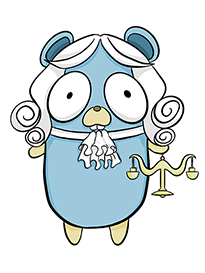
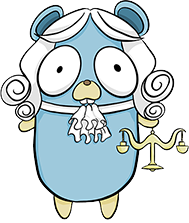
Chore/readme (#243)
* Added performance test

* Fix linting

* README.md

* make the image background transparent

diff --git a/README.md b/README.md
@@ -191,39 +191,28 @@ You can read the [detail report here](docs/Benchmarking_en.md)
 
 # Our Contributors
 
-
-<table width="100%">
-<tr><td align="center"><a href="https://github.com/newm4n"><img width="80px" height="80px" src="https://avatars3.githubusercontent.com/u/3471399?v=4"><br><br>newm4n</a><br><br></td>
-<td align="center"><a href="https://github.com/jinagamvasubabu"><img width="80px" height="80px" src="https://avatars1.githubusercontent.com/u/8560620?v=4"><br><br>jinagamvasubabu</a><br><br></td>
-<td align="center"><a href="https://github.com/niallnsec"><img width="80px" height="80px" src="https://avatars3.githubusercontent.com/u/21335031?v=4"><br><br>niallnsec</a><br><br></td>
-<td align="center"><a href="https://github.com/inhuman"><img width="80px" height="80px" src="https://avatars0.githubusercontent.com/u/2518263?v=4"><br><br>inhuman</a><br><br></td>
-<td align="center"><a href="https://github.com/ariya"><img width="80px" height="80px" src="https://avatars1.githubusercontent.com/u/7288?v=4"><br><br>ariya</a><br><br></td>
-<td align="center"><a href="https://github.com/sapiderman"><img width="80px" height="80px" src="https://avatars1.githubusercontent.com/u/964106?v=4"><br><br>sapiderman</a><br><br></td>
-</tr>
-<tr>
-<td align="center"><a href="https://github.com/jtr860830"><img width="80px" height="80px" src="https://avatars1.githubusercontent.com/u/13183797?v=4"><br><br>jtr860830</a><br><br></td>
-<td align="center"><a href="https://github.com/trancee"><img width="80px" height="80px" src="https://avatars0.githubusercontent.com/u/1520623?v=4"><br><br>trancee</a><br><br></td>
-<td align="center"><a href="https://github.com/liouxiao"><img width="80px" height="80px" src="https://avatars2.githubusercontent.com/u/3435699?v=4"><br><br>liouxiao</a><br><br></td>
-<td align="center"><a href="https://github.com/Troush"><img width="80px" height="80px" src="https://avatars0.githubusercontent.com/u/1163074?v=4"><br><br>Troush</a><br><br></td>
-<td align="center"><a href="https://github.com/shanhuhai5739"><img width="80px" height="80px" src="https://avatars3.githubusercontent.com/u/3794113?v=4"><br><br>shanhuhai5739</a><br><br></td>
-<td align="center"><a href="https://github.com/derekwyatt"><img width="80px" height="80px" src="https://avatars3.githubusercontent.com/u/62324?v=4"><br><br>derekwyatt</a><br><br></td>
-</tr>
-<tr>
-<td align="center"><a href="https://github.com/garychristianto"><img width="80px" height="80px" src="https://avatars1.githubusercontent.com/u/50298986?v=4"><br><br>garychristianto</a><br><br></td>
-<td align="center"><a href="https://github.com/sourcesoft"><img width="80px" height="80px" src="https://avatars2.githubusercontent.com/u/608906?v=4"><br><br>sourcesoft</a><br><br></td>
-<td align="center"><a href="https://github.com/sdowding-koho"><img width="80px" height="80px" src="https://avatars3.githubusercontent.com/u/62896133?v=4"><br><br>sdowding-koho</a><br><br></td>
-<td align="center"><a href="https://github.com/yomashExpel"><img width="80px" height="80px" src="https://avatars3.githubusercontent.com/u/25300754?v=4"><br><br>yomashExpel</a><br><br></td>
-<td align="center"><a href="https://github.com/avisdsouza"><img width="80px" height="80px" src="https://avatars1.githubusercontent.com/u/8979874?v=4"><br><br>avisdsouza</a><br><br></td>
-<td align="center"><a href="https://github.com/zct"><img width="80px" height="80px" src="https://avatars3.githubusercontent.com/u/4023051?v=4"><br><br>zct</a><br><br></td>
-</tr>
-<tr>
-<td align="center"><a href="https://github.com/enricoojf"><img width="80px" height="80px" src="https://avatars2.githubusercontent.com/u/17194541?v=4"><br><br>enricoojf</a><br><br></td>
-<td align="center"><a href="https://github.com/vlean"><img width="80px" height="80px" src="https://avatars1.githubusercontent.com/u/7309530?v=4"><br><br>vlean</a><br><br></td>
-</tr>
-</table>
-
-
-
+<a href="https://github.com/newm4n"><img style="border-radius: 50%;" width="50px" height="50px" src="https://avatars3.githubusercontent.com/u/3471399?s=60&v=4"></a>
+<a href="https://github.com/jinagamvasubabu"><img style="border-radius: 50%;" width="50px" height="50px" src="https://avatars1.githubusercontent.com/u/8560620?s=60&v=4"></a>
+<a href="https://github.com/niallnsec"><img style="border-radius: 50%;" width="50px" height="50px" src="https://avatars3.githubusercontent.com/u/21335031?s=60&v=4"></a>
+<a href="https://github.com/inhuman"><img style="border-radius: 50%;" width="50px" height="50px" src="https://avatars0.githubusercontent.com/u/2518263?s=60&v=4"></a>
+<a href="https://github.com/ariya"><img style="border-radius: 50%;" width="50px" height="50px" src="https://avatars1.githubusercontent.com/u/7288?s=60&v=4"></a>
+<a href="https://github.com/sapiderman"><img style="border-radius: 50%;" width="50px" height="50px" src="https://avatars1.githubusercontent.com/u/964106?s=60&v=4"></a>
+<a href="https://github.com/jtr860830"><img style="border-radius: 50%;" width="50px" height="50px" src="https://avatars1.githubusercontent.com/u/13183797?s=60&v=4"></a>
+<a href="https://github.com/trancee"><img style="border-radius: 50%;" width="50px" height="50px" src="https://avatars0.githubusercontent.com/u/1520623?s=60&v=4"></a>
+<a href="https://github.com/liouxiao"><img style="border-radius: 50%;" width="50px" height="50px" src="https://avatars2.githubusercontent.com/u/3435699?s=60&v=4"></a>
+<a href="https://github.com/Troush"><img style="border-radius: 50%;" width="50px" height="50px" src="https://avatars0.githubusercontent.com/u/1163074?s=60&v=4"></a>
+<a href="https://github.com/shanhuhai5739"><img style="border-radius: 50%;" width="50px" height="50px" src="https://avatars3.githubusercontent.com/u/3794113?s=60&v=4"></a>
+<a href="https://github.com/derekwyatt"><img style="border-radius: 50%;" width="50px" height="50px" src="https://avatars3.githubusercontent.com/u/62324?s=60&v=4"></a>
+<a href="https://github.com/garychristianto"><img style="border-radius: 50%;" width="50px" height="50px" src="https://avatars1.githubusercontent.com/u/50298986?s=60&v=4"></a>
+<a href="https://github.com/sourcesoft"><img style="border-radius: 50%;" width="50px" height="50px" src="https://avatars2.githubusercontent.com/u/608906?s=60&v=4"></a>
+<a href="https://github.com/sdowding-koho"><img style="border-radius: 50%;" width="50px" height="50px" src="https://avatars3.githubusercontent.com/u/62896133?s=60&v=4"></a>
+<a href="https://github.com/yomashExpel"><img style="border-radius: 50%;" width="50px" height="50px" src="https://avatars3.githubusercontent.com/u/25300754?s=60&v=4"></a>
+<a href="https://github.com/avisdsouza"><img style="border-radius: 50%;" width="50px" height="50px" src="https://avatars1.githubusercontent.com/u/8979874?s=60&v=4"></a>
+<a href="https://github.com/zct"><img style="border-radius: 50%;" width="50px" height="50px" src="https://avatars3.githubusercontent.com/u/4023051?s=60&v=4"></a>
+<a href="https://github.com/enricoojf"><img style="border-radius: 50%;" width="50px" height="50px" src="https://avatars2.githubusercontent.com/u/17194541?s=60&v=4"></a>
+<a href="https://github.com/vlean"><img style="border-radius: 50%;" width="50px" height="50px" src="https://avatars1.githubusercontent.com/u/7309530?s=60&v=4"></a>
+<a href="https://github.com/plasticmacaroni"><img style="border-radius: 50%;" width="50px" height="50px" src="https://avatars.githubusercontent.com/u/9966671?s=60&v=4"></a>
+<a href="https://github.com/sw7190"><img style="border-radius: 50%;" width="50px" height="50px" src="https://avatars.githubusercontent.com/u/28668763?s=60&v=4"></a>
 
 
 # Tasks and Help Wanted
